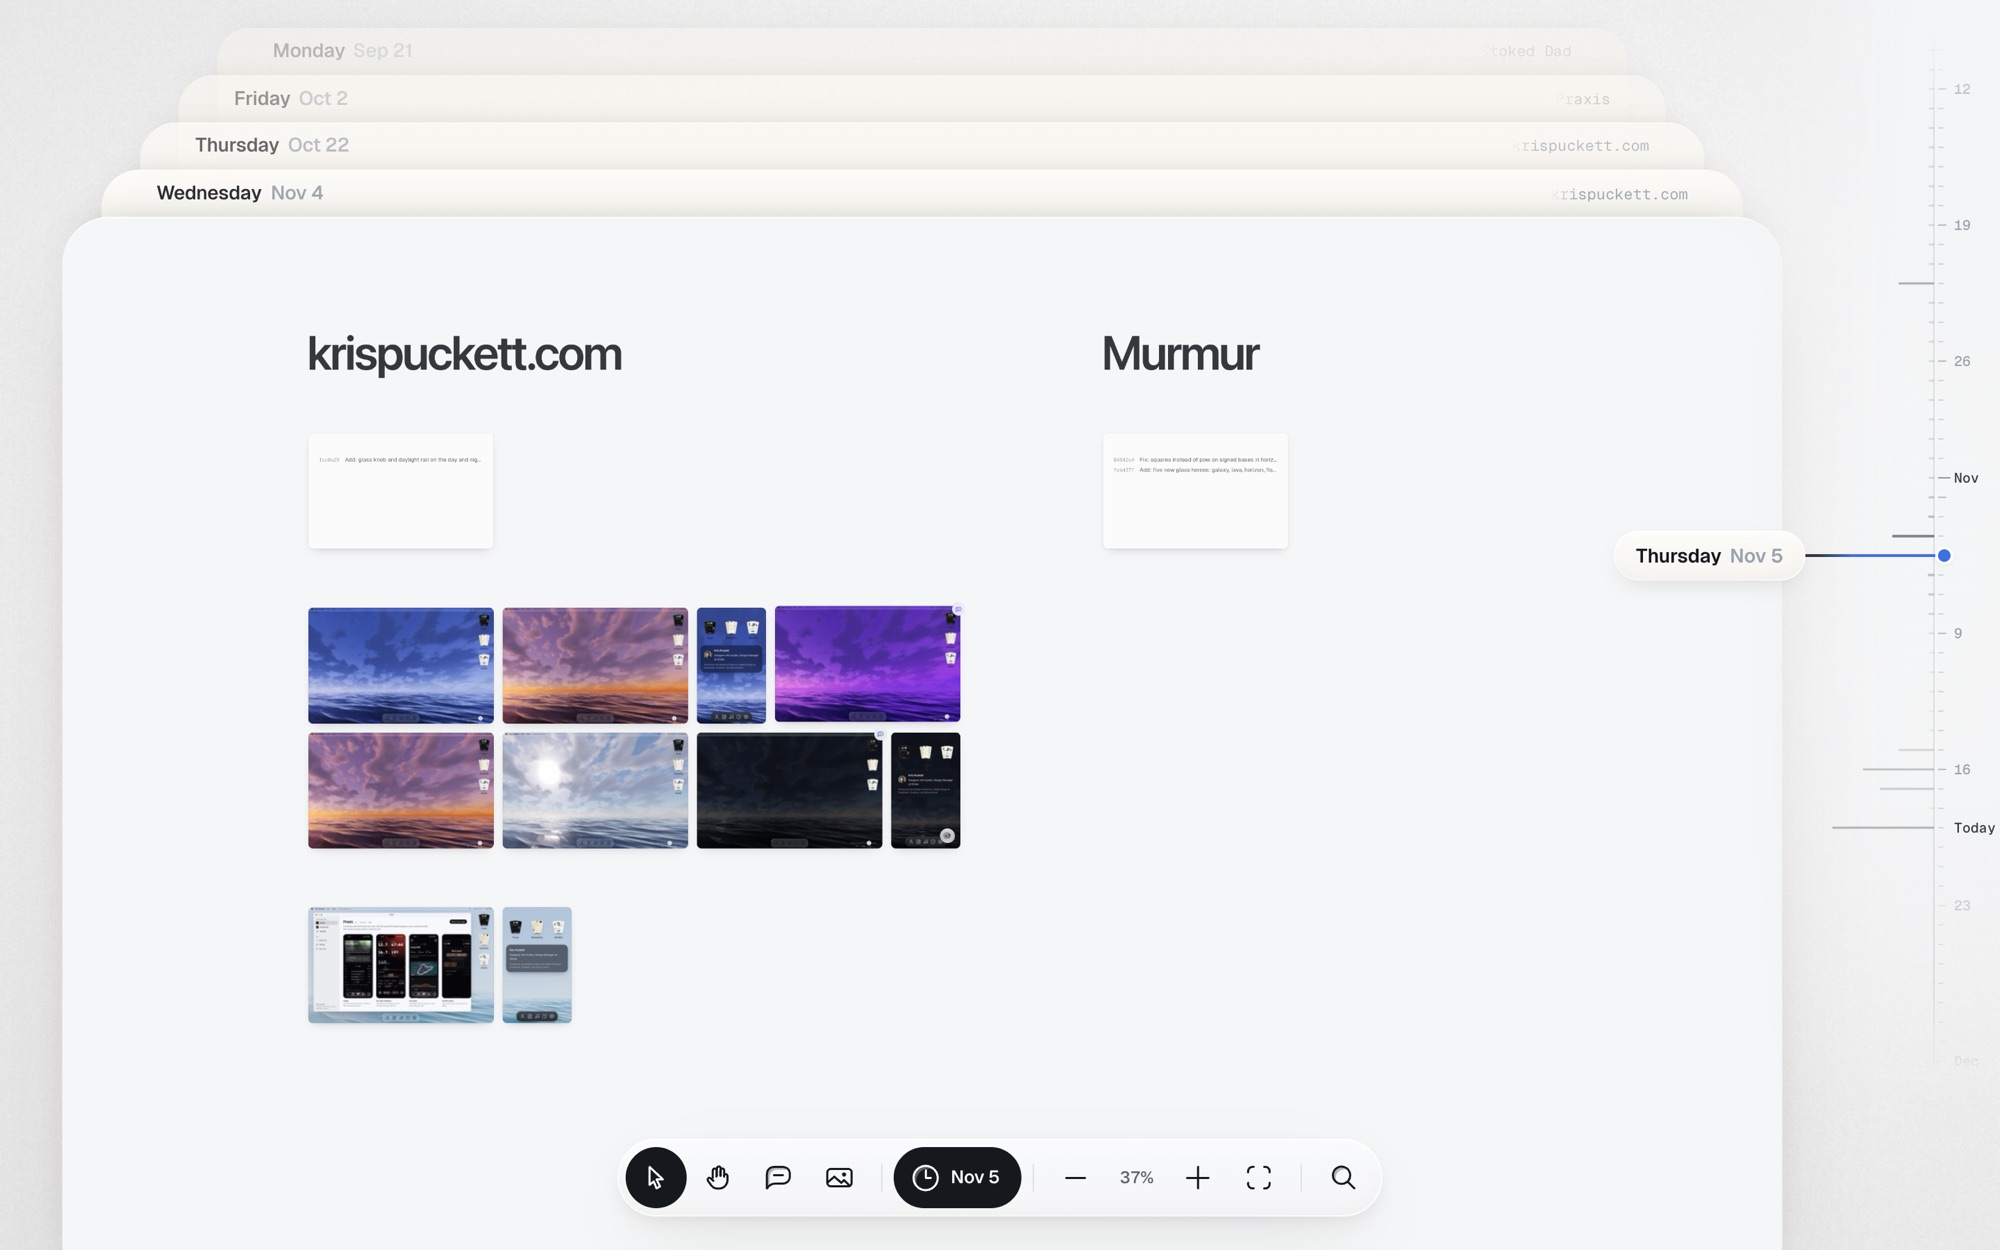
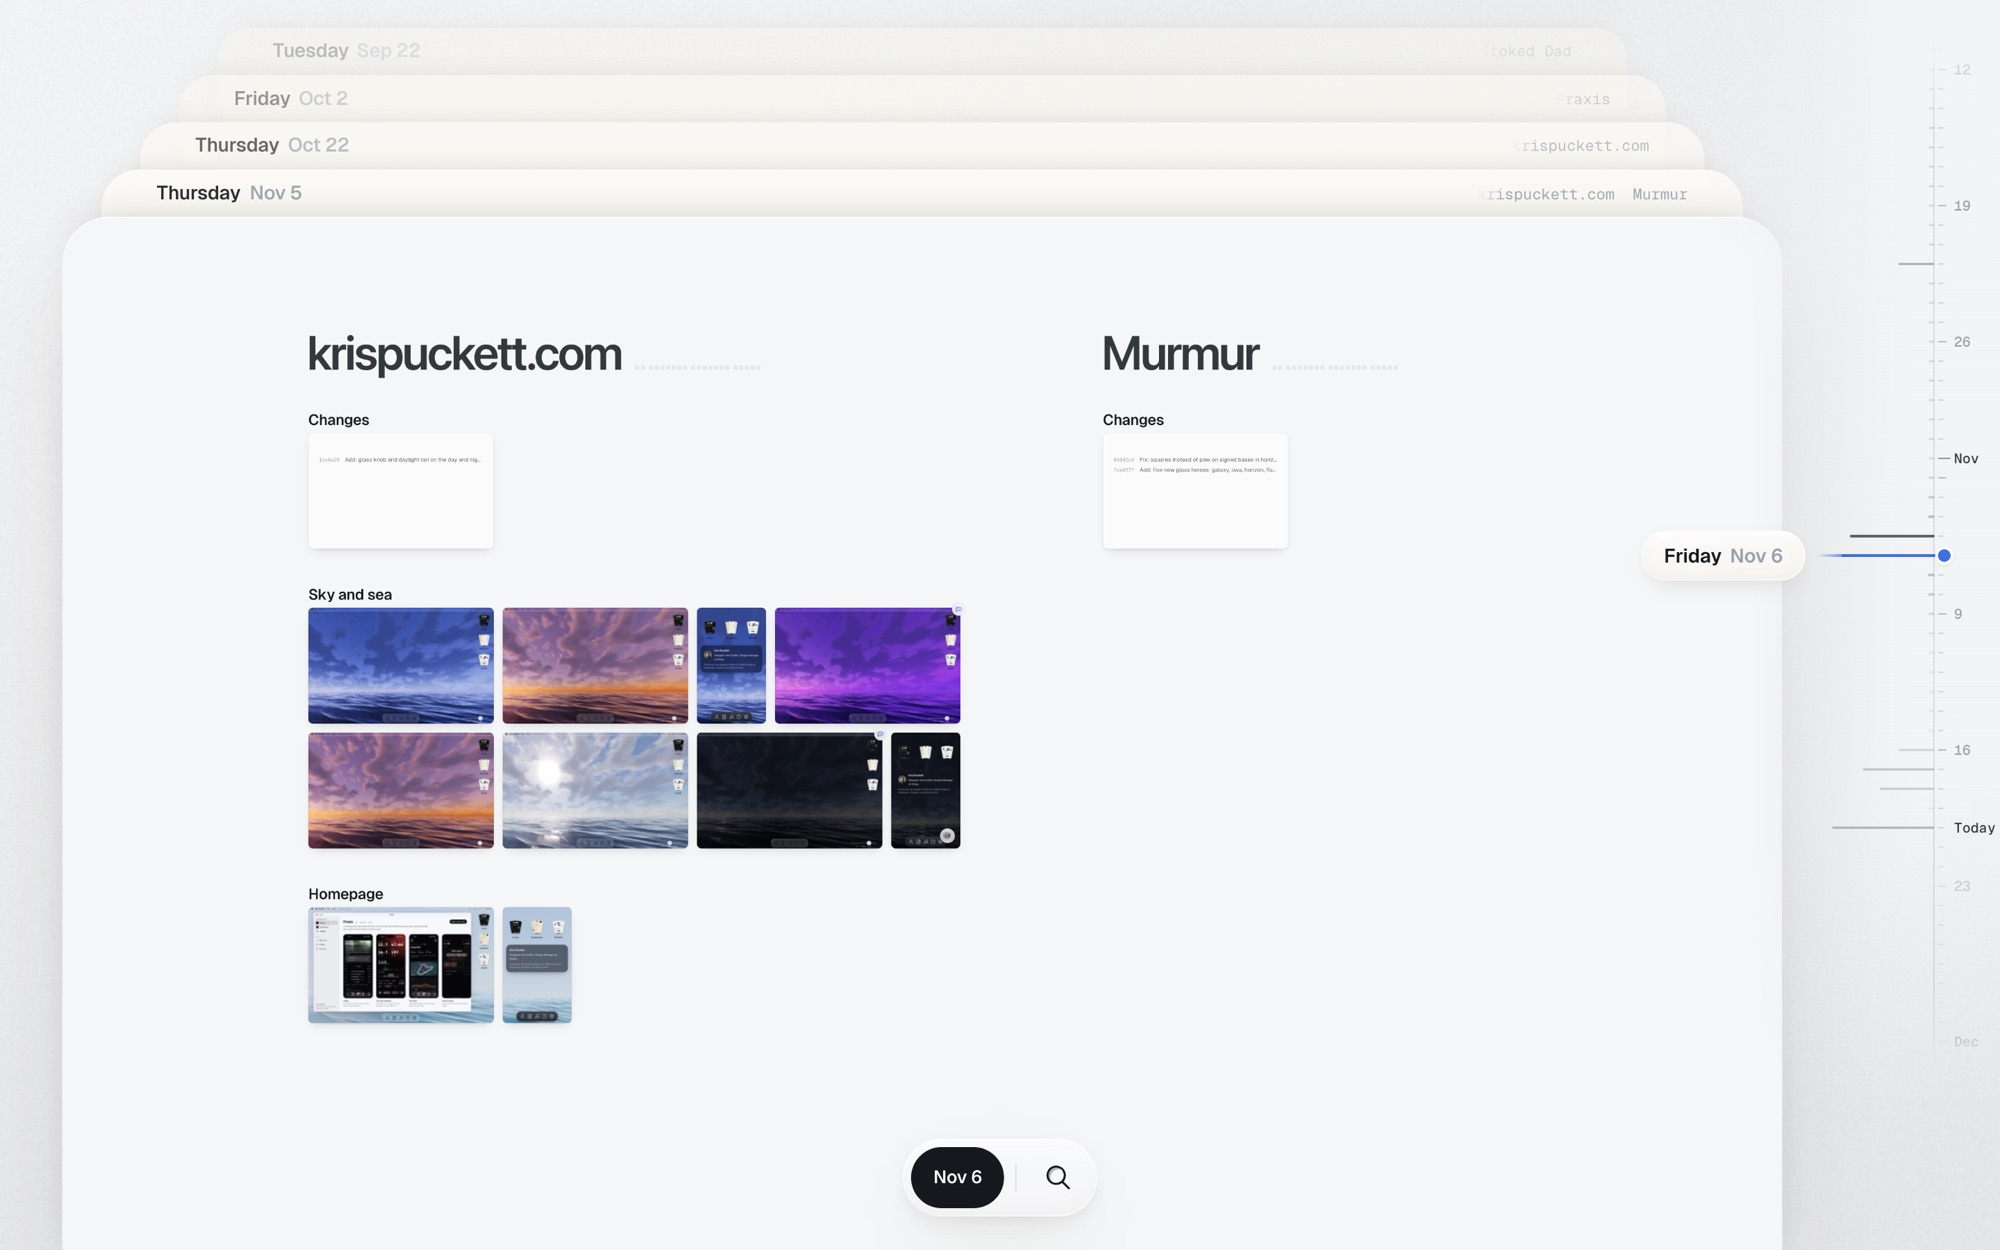
Fix: README screenshots show the new dock, and the timeline goes by its name in the app

diff --git a/README.md b/README.md
@@ -84,14 +84,14 @@ In auto mode, Claude Code may ask you before acting on a note. Say yes and it ca
 
 | Key | Does |
 | --- | --- |
-| T | Time machine |
+| T | Timeline |
 | ← → | A day back, a day forward |
 | / or ⌘K | Search |
 | + − 0 | Zoom in, zoom out, fit everything |
 | Space | Hold to pan, or to see the before while comparing |
 | Esc | Back out |
 
-Scroll pans and pinch zooms, in the time machine too; scrolling over its rail moves through
+Scroll pans and pinch zooms, in the timeline too; scrolling over its rail moves through
 the days. Drop an image or an HTML file on the canvas to add it to a project.
 
 ### Config
